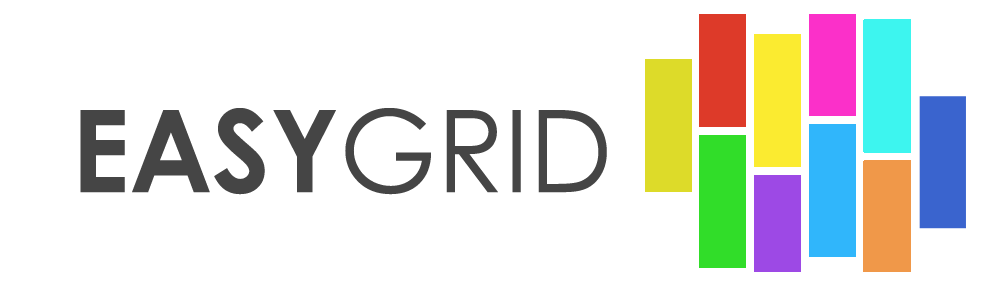
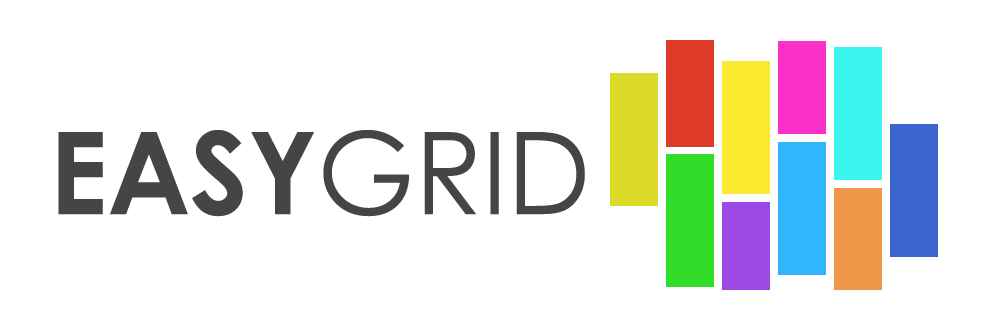
Code Update

Changed region(s): [[0.031, 0.0298, 0.992, 0.9238]]

diff --git a/index.html b/index.html
@@ -13,7 +13,7 @@
   <link rel="stylesheet" type="text/css" href="css/easygrid.css">
 
   <!-- DEMO ONLY -->
-  <link href="demo-template/vendor/bootstrap/css/bootstrap.min.css" rel="stylesheet">
+  <link href="demo-template/vendor/bootstrap/css/bootstrap.css" rel="stylesheet">
   <style>
     .arrow {
       border: solid black;
@@ -42,12 +42,10 @@
 
   <a href="https://github.com/BMSVieira/EasyGrid" target="_blank" class="github-corner" aria-label="View source on GitHub"><svg width="80" height="80" viewBox="0 0 250 250" style="fill:#151513; color:#fff; position: absolute; top: 0; border: 0; right: 0;" aria-hidden="true"><path d="M0,0 L115,115 L130,115 L142,142 L250,250 L250,0 Z"></path><path d="M128.3,109.0 C113.8,99.7 119.0,89.6 119.0,89.6 C122.0,82.7 120.5,78.6 120.5,78.6 C119.2,72.0 123.4,76.3 123.4,76.3 C127.3,80.9 125.5,87.3 125.5,87.3 C122.9,97.6 130.6,101.9 134.4,103.2" fill="currentColor" style="transform-origin: 130px 106px;" class="octo-arm"></path><path d="M115.0,115.0 C114.9,115.1 118.7,116.5 119.8,115.4 L133.7,101.6 C136.9,99.2 139.9,98.4 142.2,98.6 C133.8,88.0 127.5,74.4 143.8,58.0 C148.5,53.4 154.0,51.2 159.7,51.0 C160.3,49.4 163.2,43.6 171.4,40.1 C171.4,40.1 176.1,42.5 178.8,56.2 C183.1,58.6 187.2,61.8 190.9,65.4 C194.5,69.0 197.7,73.2 200.1,77.6 C213.8,80.2 216.3,84.9 216.3,84.9 C212.7,93.1 206.9,96.0 205.4,96.6 C205.1,102.4 203.0,107.8 198.3,112.5 C181.9,128.9 168.3,122.5 157.7,114.1 C157.9,116.9 156.7,120.9 152.7,124.9 L141.0,136.5 C139.8,137.7 141.6,141.9 141.8,141.8 Z" fill="currentColor" class="octo-body"></path></svg></a><style>.github-corner:hover .octo-arm{animation:octocat-wave 560ms ease-in-out}@keyframes octocat-wave{0%,100%{transform:rotate(0)}20%,60%{transform:rotate(-25deg)}40%,80%{transform:rotate(10deg)}}@media (max-width:500px){.github-corner:hover .octo-arm{animation:none}.github-corner .octo-arm{animation:octocat-wave 560ms ease-in-out}}</style>
 
-    <div style="text-align: center; margin-top: 27px; margin-bottom: 33px; margin-top:50px;">
+    <div style="text-align: center; margin-top: 27px; margin-bottom: 33px; margin-top: 26px;">
         <div class="container">
           <div class="row" >
-                  <div class="col-6 col-md-4"></div>
-                  <div class="col-12 col-md-4 cold-sm-12"><img style="width:100%;" src="demo-template/images/easy_small.png"></div>
-                  <div class="col-6 col-md-4"></div>
+                  <div class="col-12 col-md-12 cold-sm-12"><img class="logo" src="demo-template/images/easy_small.png"></div>
           </div>
           <div class="row" style="margin-top:30px;">
               <div class="col-12 col-md-12 cold-sm-12" style="text-align:center;">
